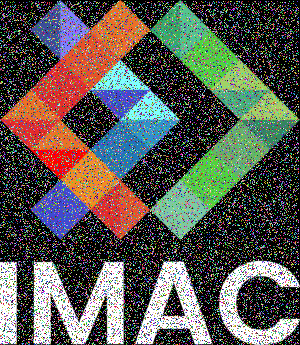
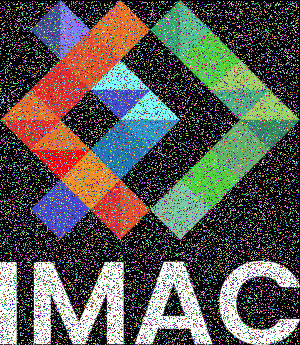
début de convolution avec idees christians mais ça marche pas

diff --git a/src/main_lison.cpp b/src/main_lison.cpp
@@ -556,19 +556,35 @@ void main_lison()
         {1.f/9.f, 1.f/0.9f, 1.f/9.f},
         {1.f/9.f, 1.f/0.9f, 1.f/9.f},
     };
+    float Total{0};
+    for (std::vector<float> line : kernel)
+    {
+        for (float i : line)
+        {
+            Total += i;
+        }
+    }
     int coordx {0};
     int coordy {0};
     for(int x {0}; x<image.width(); x++){
         for(int y {0}; y<image.height(); y++){
-            
-            for(int i {-(static_cast<int>(kernel.size()))/2}; i<(static_cast<int>(kernel.size())); i++){
-                for(int j {-(static_cast<int>(kernel.size()))/2}; j<(static_cast<int>(kernel.size())); j++){
+            glm::vec3 couleur {0.f};
+            for(int i {-(static_cast<int>(kernel.size())/2)}; i<(static_cast<int>(kernel.size())); i++){
+                for(int j {-(static_cast<int>(kernel.size())/2)}; j<(static_cast<int>(kernel[0].size())); j++){
                     coordx = x+i;
                     coordy = y+i;
-                    image.pixel(x, y) *= glm::vec3(kernel[i][j]);
+                    if(coordx>0 && coordx<image.width() && coordy>0 && coordy<image.height() && j+static_cast<int>(kernel[0].size())/2<kernel[0].size() && i+static_cast<int>(kernel.size())/2<kernel.size()){
+                        couleur = image.pixel(coordx, coordy)*kernel.at(i+static_cast<int>(kernel.size())/2).at(j+static_cast<int>(kernel[0].size())/2);
+                    }
+                    else {
+                        image.pixel(x, y) += glm::vec3(0.f); 
+                    }
                 }
             }
-
+            if(Total!=0){
+                couleur=couleur/Total;
+            }
+            image.pixel(x, y) = couleur;
         }
     }
     image.save("output_l/convolution.png");
